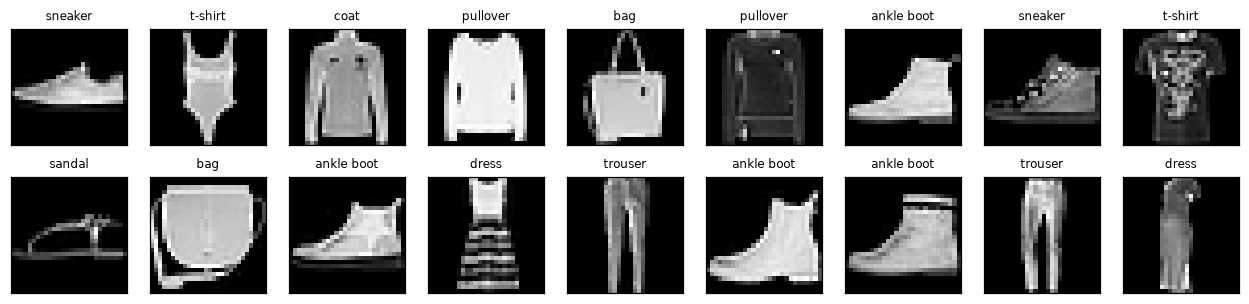
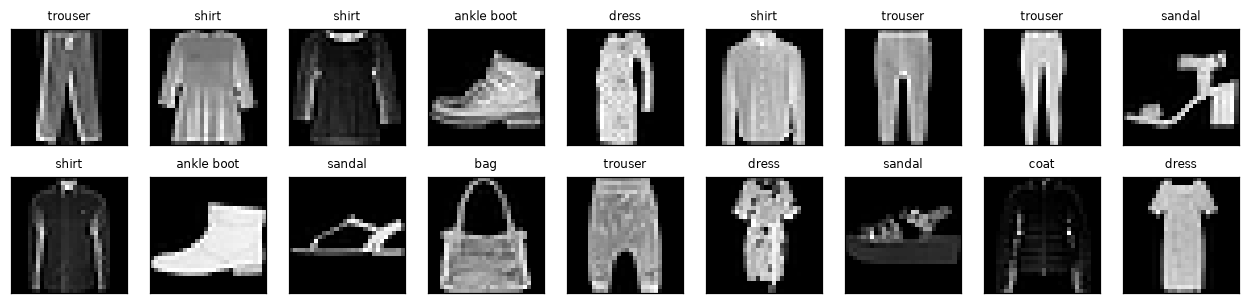
完成3.6softmax回归从零实现

diff --git a/ch03/softmax_scratch.py b/ch03/softmax_scratch.py
@@ -1,0 +1,174 @@
+# D2L 3.6 softmax 回归的从零开始实现
+# 目标：不用 nn.Sequential / nn.CrossEntropyLoss，全部手搓一个图像分类器
+
+import time
+import torch
+import torchvision
+from torch.utils import data
+from torchvision import transforms
+
+torch.manual_seed(0)          # 固定随机种子
+
+
+# ============================================================
+# 1. 数据
+# ============================================================
+trans = transforms.ToTensor()
+root = r"D:\d2l-study\data"
+mnist_train = torchvision.datasets.FashionMNIST(root=root, train=True,
+                                                transform=trans, download=False)
+mnist_test = torchvision.datasets.FashionMNIST(root=root, train=False,
+                                               transform=trans, download=False)
+
+batch_size = 256
+train_iter = data.DataLoader(mnist_train, batch_size, shuffle=True)
+test_iter = data.DataLoader(mnist_test, batch_size, shuffle=False)
+
+
+# ============================================================
+# 2. 参数
+# ============================================================
+num_inputs, num_outputs = 784, 10
+W = torch.normal(0, 0.01, size=(num_inputs, num_outputs), requires_grad=True)
+b = torch.zeros(num_outputs, requires_grad=True)
+
+print("W.shape =", tuple(W.shape), "   <- (输入维度, 类别数)")
+print("b.shape =", tuple(b.shape))
+print("参数总数 =", W.numel() + b.numel())
+
+
+# ============================================================
+# 3. softmax（你 softmax_basic.py 写过，直接给）
+# ============================================================
+def softmax(X):
+    X_exp = torch.exp(X)
+    return X_exp / X_exp.sum(1, keepdim=True)
+    # sum(1) = 对「每一行」求和。一行 = 一个样本的 10 个分数
+
+
+# ============================================================
+# 4. 模型
+# ============================================================
+# TODO(你) 1/2：前向 —— 拉平 -> 矩阵乘 -> 加偏置 -> softmax
+#   X 的形状是 (batch, 1, 28, 28)，必须拉平成 (batch, 784)
+#   hint: X.reshape((-1, W.shape[0]))     <- -1 让 PyTorch 自己算 batch
+#   hint: torch.matmul(拉平后的 X, W) + b
+#   hint: 外面再套一层 softmax(...)
+def net(X):
+    X_flat = X.reshape((-1, W.shape[0]))
+    o = torch.matmul(X_flat, W) + b
+    a = softmax(o)
+    return a
+
+
+# ============================================================
+# 5. 损失（你 cross_entropy.py 写过，直接给）
+# ============================================================
+def cross_entropy(y_hat, y):
+    return -torch.log(y_hat[range(len(y_hat)), y])
+    # 注意：返回的是「向量」，一个样本一个损失，所以后面要 .sum()
+
+
+# ============================================================
+# 6. 精度
+# ============================================================
+# TODO(你) 2/2：算这一批里猜对了多少个
+#   三步：
+#     1) 把每个样本「概率最大的类别」取出来：y_hat.argmax(axis=1)
+#        （先判断 y_hat 是不是二维的、第二维 > 1）
+#     2) 和真实标签比较：y_hat.type(y.dtype) == y      -> 得到 True/False
+#     3) 数一下 True 的个数，返回 float
+#   hint: cmp.type(y.dtype).sum()
+def accuracy(y_hat, y):
+    if len(y_hat.shape) > 1 and y_hat.shape[1] > 1:
+         y_hat = y_hat.argmax(axis=1)
+    cmp = (y_hat.type(y.dtype) == y)
+    return float(cmp.type(y.dtype).sum())
+
+
+# ============================================================
+# 7. 在测试集上评估
+# ============================================================
+def evaluate_accuracy(net, data_iter):
+    correct, total = 0.0, 0.0
+    with torch.no_grad():               # 评估不需要梯度
+        for X, y in data_iter:
+            correct += accuracy(net(X), y)
+            total += y.numel()
+    return correct / total
+
+
+# ============================================================
+# 8. 优化器
+# ============================================================
+lr = 0.1
+
+
+def sgd(params, lr, bs):
+    with torch.no_grad():
+        for p in params:
+            p -= lr * p.grad / bs
+            p.grad.zero_()
+
+
+def updater(bs):
+    sgd([W, b], lr, bs)
+    # ⚠ 必须把 [W, b] 当参数传进去！
+    #    如果直接在这里写 `W -= ...`，W 会变成 updater 的「局部变量」，
+    #    报 UnboundLocalError。这是 Python 的作用域规则。
+    #    这也正是 D2L 的 sgd 为什么要写成 sgd(params, ...) —— 传进去，别从外面抓。
+
+
+# ============================================================
+# 9. 训练
+# ============================================================
+num_epochs = 10
+t0 = time.time()
+
+for epoch in range(num_epochs):
+    total_loss, correct, total = 0.0, 0.0, 0.0
+
+    for X, y in train_iter:
+        y_hat = net(X)                      # 前向
+        l = cross_entropy(y_hat, y)
+        l.sum().backward()                  # 反向
+        updater(X.shape[0])                 # 更新
+
+        with torch.no_grad():               # 统计指标而已，不需要梯度
+            total_loss += float(l.sum())
+            correct += accuracy(y_hat, y)
+            total += y.numel()
+
+    test_acc = evaluate_accuracy(net, test_iter)
+    print("epoch %2d | train loss %.4f | train acc %.4f | test acc %.4f"
+          % (epoch + 1, total_loss / total, correct / total, test_acc))
+
+print()
+print("总耗时 %.1f 秒" % (time.time() - t0))
+print("W.shape =", tuple(W.shape), "  <- (784, 10)，每一列对应一个类别")
+import matplotlib
+matplotlib.use("Agg")
+import matplotlib.pyplot as plt
+
+names = ['t-shirt', 'trouser', 'pullover', 'dress', 'coat',
+         'sandal', 'shirt', 'sneaker', 'bag', 'ankle boot']
+
+Wd = W.detach()
+fig, axes = plt.subplots(2, 5, figsize=(11, 4.8))
+for j in range(10):
+    ax = axes[j // 5][j % 5]
+    col = Wd[:, j].reshape(28, 28)
+    ax.imshow(col.numpy(), cmap="RdBu_r",
+              vmin=-col.abs().max(), vmax=col.abs().max())
+    ax.set_title("%s" % names[j], fontsize=8)
+    ax.set_xticks([]); ax.set_yticks([])
+plt.savefig(r"D:\d2l-study\ch03\W_templates.png", dpi=115, bbox_inches="tight")
+print("模板图已保存")
+
+# ============================================================
+# 自检
+# ============================================================
+# 1) 第 1 个 epoch：train loss 约 0.78，test acc 约 0.78
+# 2) 第 10 个 epoch：train acc 约 0.85，test acc 约 0.82
+# 3) 总耗时约 70~90 秒（CPU）
+# 4) 看最后一个 epoch：train acc 比 test acc 高。这说明什么？先猜。

diff --git a/ch03/fashion_mnist.py b/ch03/fashion_mnist.py
@@ -79,6 +79,7 @@ def show_images(imgs, num_rows, num_cols, titles=None, scale=1.6):
 
 # TODO(你) 1/2: 把 X 从 (18, 1, 28, 28) 变成 (18, 28, 28)，好画图
 #   hint: X.reshape(18, 28, 28)
+X.reshape(18,28,28)
 imgs = X.reshape(18, 28, 28)
 
 if imgs is not None:
@@ -95,6 +96,7 @@ if imgs is not None:
 # TODO(你) 2/2: 3.6 要用 nn.Linear(784, 10)，输入必须是 784 维。
 #               把 X 从 (18, 1, 28, 28) 变成 (18, 784)
 #   hint: X.reshape(X.shape[0], -1)     <- -1 让 PyTorch 自己算
+X.reshape(X.shape[0], -1)
 X_flat = X.reshape(X.shape[0], -1)
 print()
 print("X_flat.shape =", None if X_flat is None else tuple(X_flat.shape))
